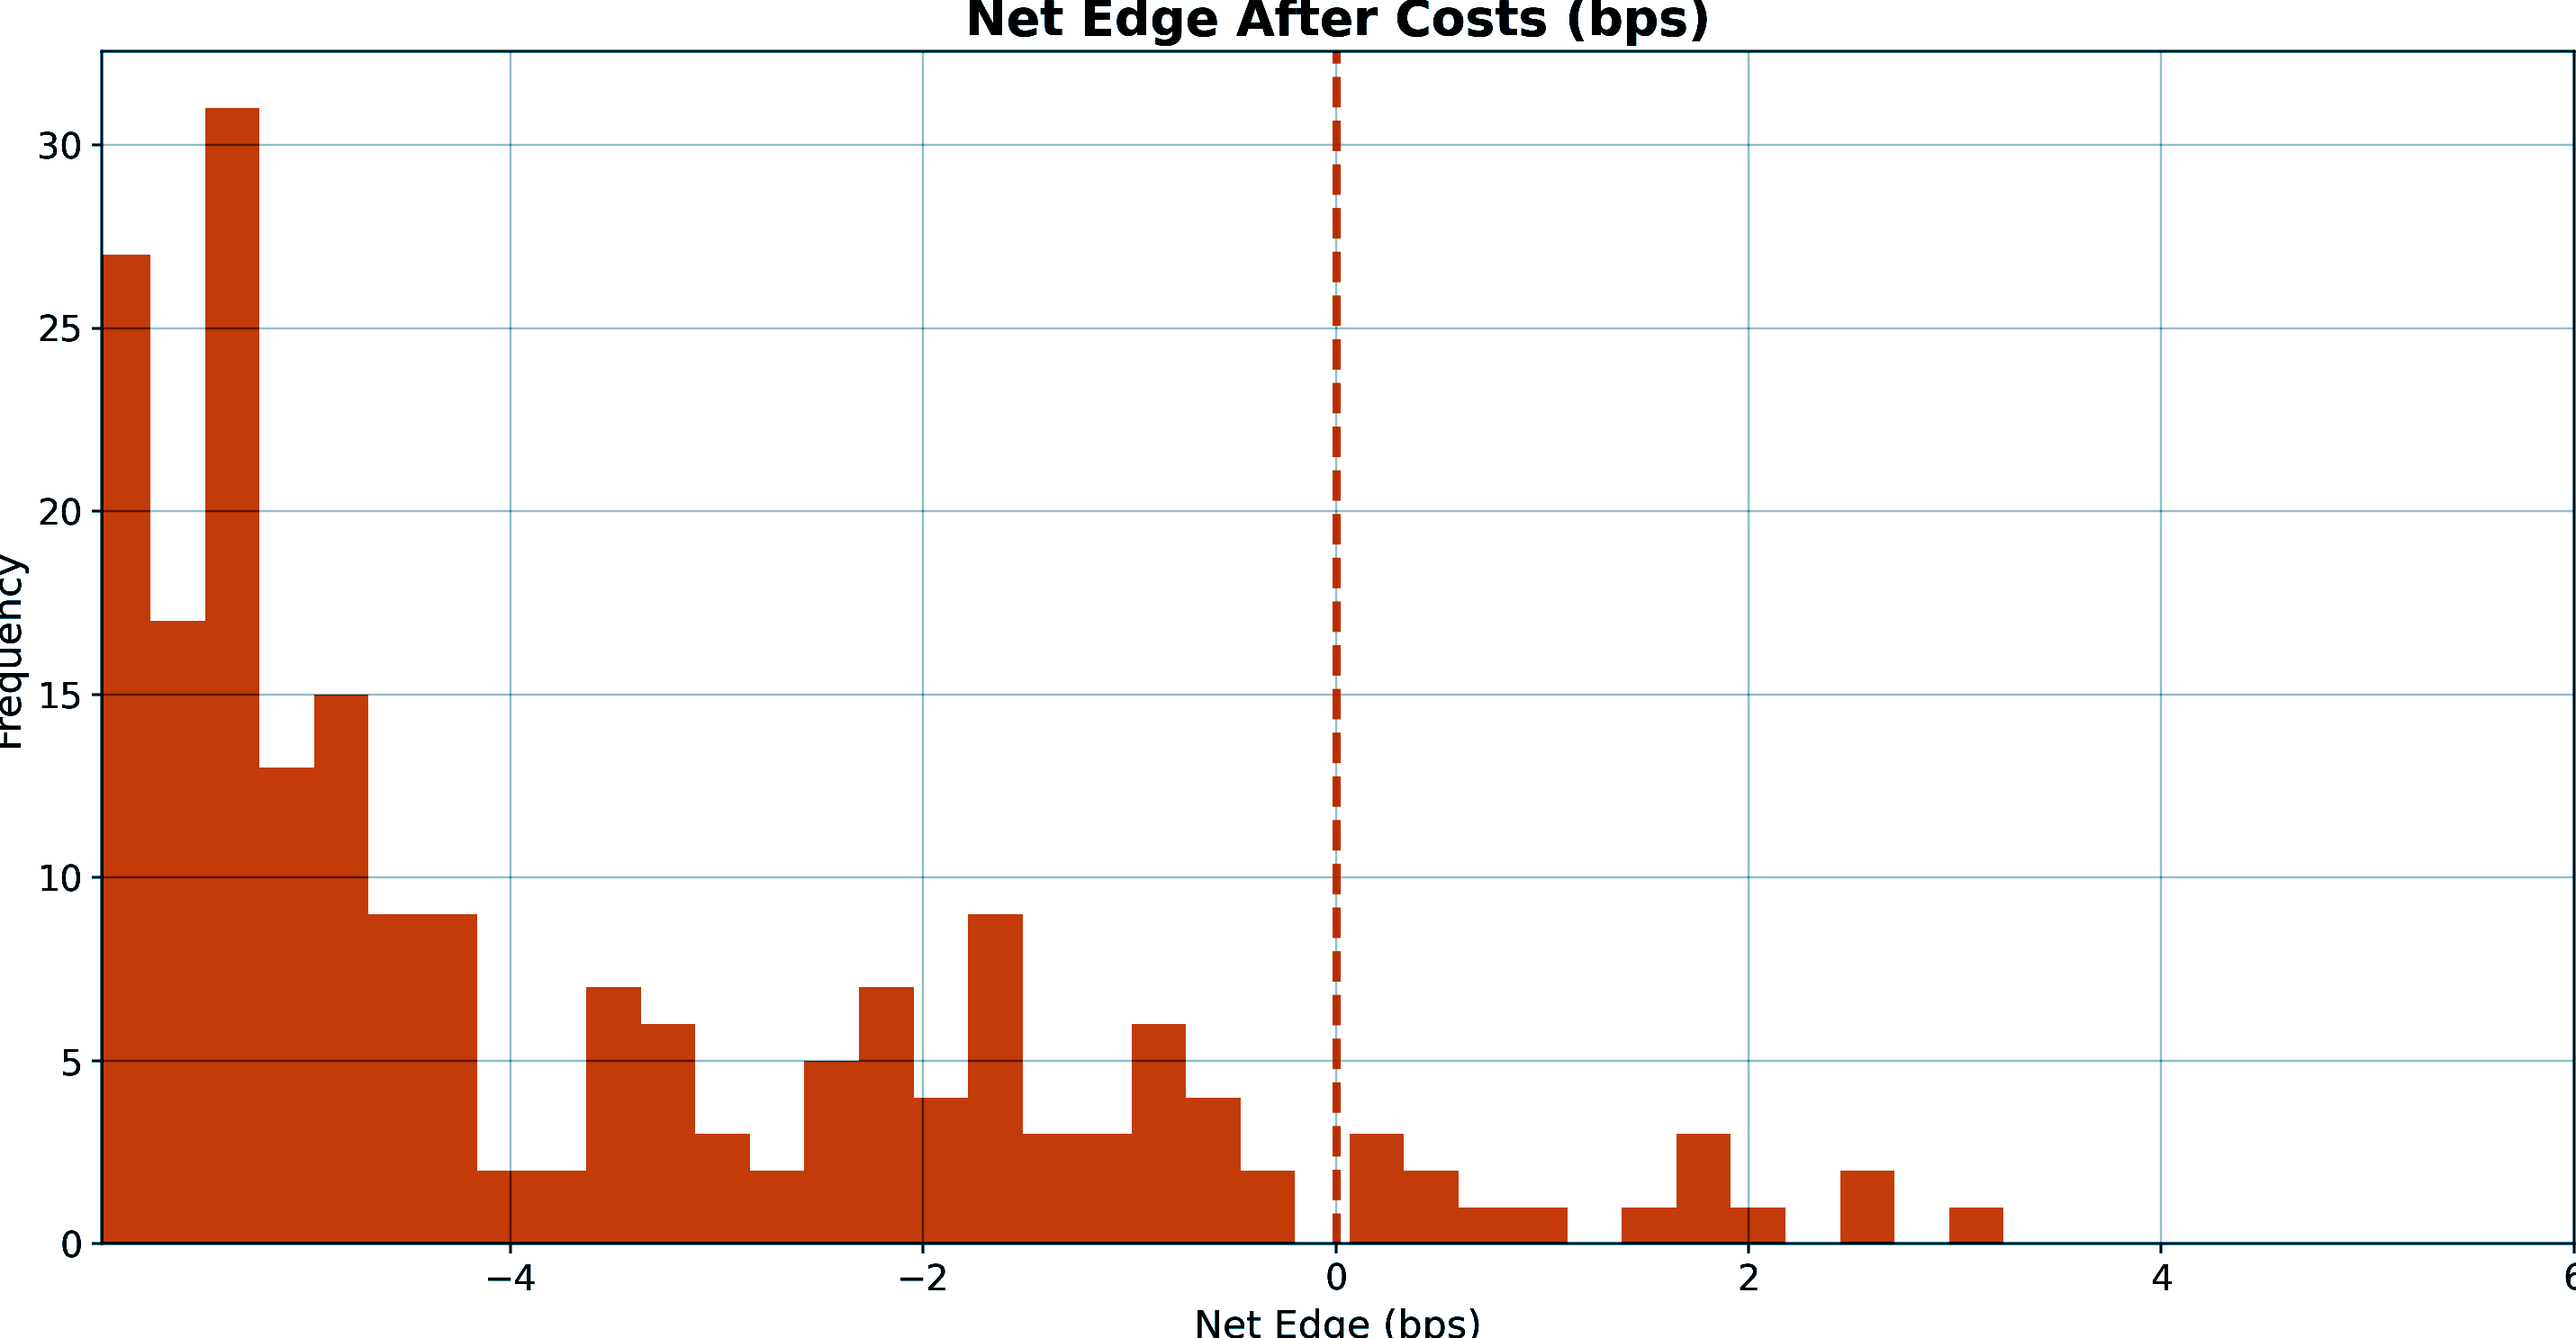
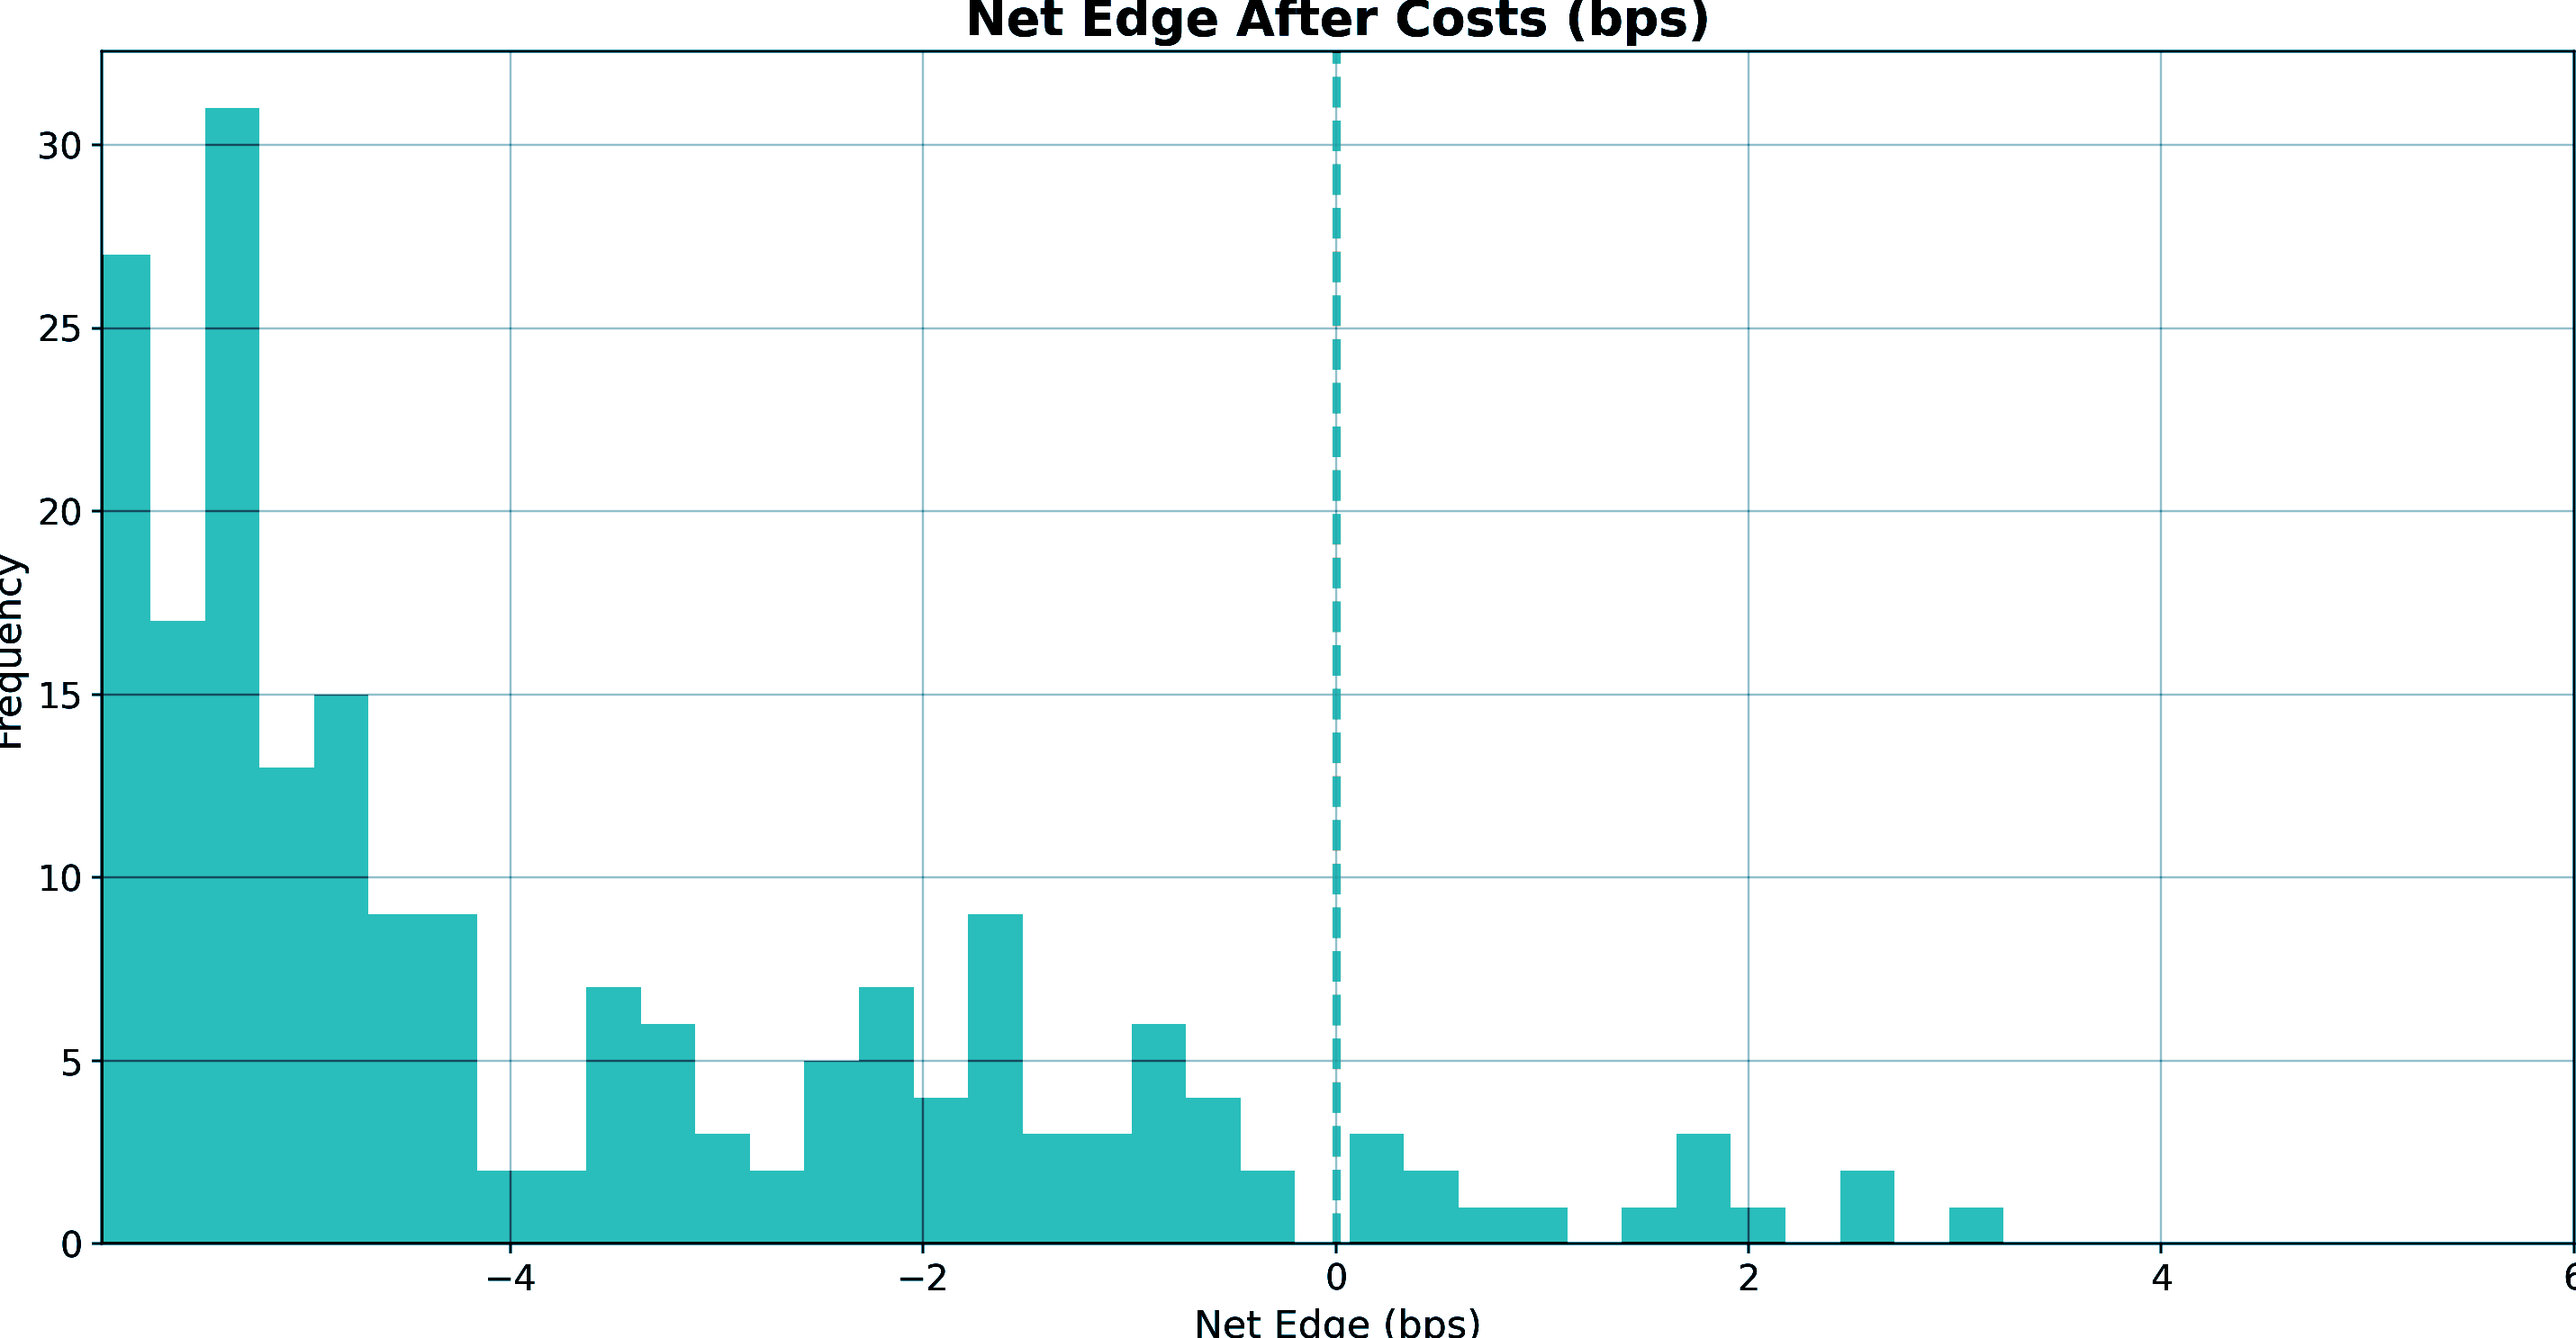
Recolor market charts to blue-teal palette and bust image cache

Changed region(s): [[0.0311, 0.0619, 0.7777, 0.928]]

diff --git a/projects/market-inefficiencies-pipeline.html b/projects/market-inefficiencies-pipeline.html
@@ -126,7 +126,7 @@
   <section class="section">
     <h2>Architecture</h2>
     <div class="imgCard vizCard">
-      <img class="vizImage" src="../public/images/spread_hist_zoom_0_6_light.png" alt="Bid–ask spread (0–6 bps)">
+      <img class="vizImage" src="../public/images/spread_hist_zoom_0_6_light.png?v=2" alt="Bid–ask spread (0–6 bps)">
       <div class="caption">Baseline liquidity: bid–ask spread distribution across venues (zoomed 0–6 bps).</div>
     </div>
   </section>
@@ -135,17 +135,17 @@
     <h2>Results</h2>
     <div class="twoCol">
       <div class="imgCard vizCard">
-        <img class="vizImage" src="../public/images/net_edge_dist_light.png" alt="Net edge after costs distribution">
+        <img class="vizImage" src="../public/images/net_edge_dist_light.png?v=2" alt="Net edge after costs distribution">
         <div class="caption">Net edge after costs (fees + slippage) for cross-venue signals: max(bid) − min(ask).</div>
       </div>
       <div class="imgCard vizCard">
-        <img class="vizImage" src="../public/images/top_signals_table_light.png" alt="Top signals table">
+        <img class="vizImage" src="../public/images/top_signals_table_light.png?v=2" alt="Top signals table">
         <div class="caption">Example output: top ranked signals with buy/sell venues and gross vs net edge (bps).</div>
       </div>
     </div>
   </section>
 <div class="imgCard vizCard" style="margin-top: 16px;">
-  <img class="vizImage" src="../public/images/venue_pair_counts_light.png" alt="Venue pair counts">
+  <img class="vizImage" src="../public/images/venue_pair_counts_light.png?v=2" alt="Venue pair counts">
   <div class="caption">Signals by venue pair (buy → sell): which exchanges generate most opportunities.</div>
 </div>
 
